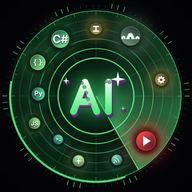
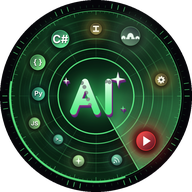
Launch splash with a live radar sweep; search results grouped by source
- Splash: green radar disc with a rotating sweep and blips, plus the
  Radar/AI wordmark, shown once per launch (skipped on in-session reloads,
  auto-hides via CSS if scripts fail).
- Search: icon-sized search button; results get colored per-source groups
  (YouTube, GitHub, Hacker News, other platforms) with counts, first 3
  items and "عرض الكل", plus source tabs to show one source at a time.
- Fixes the channel-kind row showing when it should be hidden.
- Launcher "any" icons get a transparent circle so the system splash shows
  a round icon.
Claude-Session: https://claude.ai/code/session_015q84QNiySEyyydUfSFTRJH

diff --git a/index.html b/index.html
@@ -70,6 +70,7 @@ header {
 .field::placeholder { color: var(--muted); }
 .field.ltr { direction: ltr; text-align: left; }
 .panel .two { display: flex; gap: 8px; }
+.panel .two[hidden] { display: none; }
 .panel select.field { flex: 1; }
 .srow { display: flex; gap: 8px; }
 .srow .field { flex: 1; }
@@ -81,8 +82,28 @@ header {
 .rcard .ra .go { background: var(--accent); color: #111; border-color: var(--accent); font-weight: 700; }
 .btn-main { height: 44px; padding: 0 18px; border: 0; border-radius: 12px; background: var(--accent); color: #111; font-weight: 700; }
 .hint { font-size: 12px; color: var(--muted); line-height: 1.8; margin: 0; }
-.sresh { font-size: 12px; font-weight: 700; color: var(--muted); margin: 10px 0 -2px; text-transform: uppercase; letter-spacing: .02em; }
-.sresh:first-child { margin-top: 2px; }
+.btn-icon { width: 44px; padding: 0; display: inline-grid; place-items: center; flex: 0 0 auto; }
+.btn-icon svg { width: 20px; height: 20px; }
+.stabs { display: flex; gap: 6px; overflow-x: auto; scrollbar-width: none; padding: 2px 0 4px; }
+.stabs::-webkit-scrollbar { display: none; }
+.stab { flex: 0 0 auto; display: inline-flex; align-items: center; gap: 6px; height: 34px; padding: 0 12px; border-radius: 999px; border: 1px solid var(--line); background: var(--surface); color: var(--text); font-size: 13px; font-weight: 600; }
+.stab .scount { font-family: var(--font-mono); font-size: 11px; color: var(--muted); font-weight: 500; }
+.stab .scount:empty { display: none; }
+.stab[aria-pressed="true"] { border-color: var(--sc, var(--text)); background: color-mix(in srgb, var(--sc, #fff) 16%, var(--surface)); }
+.sdot { width: 8px; height: 8px; border-radius: 50%; background: var(--sc); flex: 0 0 auto; }
+.sgroup { display: flex; flex-direction: column; gap: 8px; padding: 10px; border-radius: 16px; border: 1px solid color-mix(in srgb, var(--sc) 35%, var(--line)); background: color-mix(in srgb, var(--sc) 6%, transparent); }
+.sgroup[hidden] { display: none; }
+.sresh { display: flex; align-items: center; gap: 8px; font-size: 15px; font-weight: 700; color: var(--sc); cursor: pointer; }
+.sresh .scount { font-family: var(--font-mono); font-size: 12px; font-weight: 500; padding: 1px 8px; border-radius: 999px; background: color-mix(in srgb, var(--sc) 18%, transparent); }
+.sresh .scount:empty { display: none; }
+.slist { display: flex; flex-direction: column; gap: 8px; }
+.sgroup:not(.open) .slist > .rcard:nth-child(n+4) { display: none; }
+.smore { height: 38px; border-radius: 10px; border: 1px dashed color-mix(in srgb, var(--sc) 55%, var(--line)); background: transparent; color: var(--sc); font-size: 13px; font-weight: 700; }
+.smore[hidden] { display: none; }
+.sgroup .rcard { padding: 10px 12px; gap: 4px; }
+.sgroup .rcard b { font-size: 14px; }
+.sgroup .rcard small { font-size: 12px; display: -webkit-box; -webkit-line-clamp: 2; -webkit-box-orient: vertical; overflow: hidden; }
+.sgroup .rcard .ra a, .sgroup .rcard .ra button { padding: 4px 10px; font-size: 12px; }
 .err { color: #ff9a8a; font-size: 13px; margin: 0; }
 
 .tiles { display: grid; grid-template-columns: repeat(3, 1fr); gap: 10px; margin-top: 14px; }
@@ -159,9 +180,30 @@ header {
 .toast[hidden] { display: none; }
 .empty { text-align: center; color: var(--muted); padding: 48px 12px; font-size: 15px; line-height: 1.9; }
 footer { margin-top: 28px; text-align: center; color: var(--muted); font-size: 12px; line-height: 1.9; }
+/* launch splash: radar disc with a live sweep and the wordmark, shown once per app launch */
+#splash { position: fixed; inset: 0; z-index: 50; background: var(--bg); display: flex; flex-direction: column; align-items: center; justify-content: center; gap: 26px; transition: opacity .45s ease; animation: spOut .4s ease 4s forwards; }
+#splash.hide { opacity: 0; pointer-events: none; }
+@keyframes spOut { to { opacity: 0; visibility: hidden; } }
+.sp-radar { position: relative; width: min(64vw, 270px); aspect-ratio: 1; border-radius: 50%; overflow: hidden;
+  background: repeating-radial-gradient(circle, transparent 0 calc(12.5% - 1px), rgba(90,235,130,.26) calc(12.5% - 1px) 12.5%), radial-gradient(circle, #0c3a1d 0%, #04140a 72%);
+  box-shadow: 0 0 0 2px rgba(90,235,130,.6), 0 0 0 9px rgba(90,235,130,.08), 0 0 60px rgba(90,235,130,.28); }
+.sp-radar::before { content: ""; position: absolute; inset: 0; background: linear-gradient(90deg, transparent calc(50% - .5px), rgba(90,235,130,.22) calc(50% - .5px) calc(50% + .5px), transparent 0), linear-gradient(0deg, transparent calc(50% - .5px), rgba(90,235,130,.22) calc(50% - .5px) calc(50% + .5px), transparent 0); }
+.sp-sweep { position: absolute; inset: 0; border-radius: 50%; background: conic-gradient(from 0deg, transparent 0 68%, rgba(110,255,150,0) 68%, rgba(110,255,150,.55) 100%); animation: spSpin 1.8s linear infinite; }
+.sp-sweep::after { content: ""; position: absolute; left: calc(50% - 1px); top: 0; width: 2px; height: 50%; background: #9dffbe; box-shadow: 0 0 10px 2px rgba(120,255,160,.8); }
+@keyframes spSpin { to { transform: rotate(360deg); } }
+.sp-blip { position: absolute; width: 9px; height: 9px; margin: -4.5px; border-radius: 50%; background: #b6ffcc; box-shadow: 0 0 12px 3px rgba(120,255,160,.75); opacity: 0; animation: spBlip 1.8s linear infinite; }
+@keyframes spBlip { 0%, 100% { opacity: 0; } 8% { opacity: 1; } 55% { opacity: .15; } }
+.sp-word { display: flex; align-items: baseline; gap: 8px; font-weight: 700; }
+.sp-word .r { font-size: 20px; font-weight: 600; color: var(--muted); }
+.sp-word .a { font-size: 46px; color: var(--accent); text-shadow: 0 0 24px rgba(255,122,61,.45); }
+@media (prefers-reduced-motion: reduce) { .sp-sweep, .sp-blip { animation-duration: 6s; } }
 </style>
 </head>
 <body>
+<div id="splash" aria-hidden="true">
+  <div class="sp-radar"><div class="sp-sweep"></div><span class="sp-blip" style="left:70%;top:30%;animation-delay:0.25s"></span><span class="sp-blip" style="left:78%;top:62%;animation-delay:0.55s"></span><span class="sp-blip" style="left:34%;top:74%;animation-delay:1.05s"></span><span class="sp-blip" style="left:26%;top:38%;animation-delay:1.45s"></span></div>
+  <div class="sp-word" dir="ltr"><span class="r">Radar</span><span class="a">AI</span></div>
+</div>
 <div class="wrap">
   <header>
     <div class="bar">
@@ -203,8 +245,8 @@ footer { margin-top: 28px; text-align: center; color: var(--muted); font-size: 1
 
     <div class="panel" id="searchBox" hidden>
       <div class="srow">
-        <input id="q" class="field" type="search" placeholder="دوّر في الرادار، أو دوس بحث لكل المنصات" autocomplete="off" enterkeyhint="search">
-        <button class="btn-main" id="qGo">بحث في كل المنصات</button>
+        <input id="q" class="field" type="search" placeholder="ابحث في الرادار وكل المنصات" autocomplete="off" enterkeyhint="search">
+        <button class="btn-main btn-icon" id="qGo" aria-label="بحث في كل المنصات"><svg viewBox="0 0 24 24" fill="none" stroke="currentColor" stroke-width="2.4" stroke-linecap="round"><circle cx="11" cy="11" r="7"/><path d="M20 20l-3.5-3.5"/></svg></button>
       </div>
       <div class="two" id="kindRow" hidden>
         <select id="chanKind" class="field" aria-label="قسم القناة">
@@ -236,6 +278,13 @@ footer { margin-top: 28px; text-align: center; color: var(--muted); font-size: 1
 </div>
 
 <script>
+/* hide the launch splash after one sweep, or at once on a reload within the same session */
+(function () {
+  var sp = document.getElementById("splash"), seen = false;
+  try { seen = !!sessionStorage.getItem("radar-splash"); sessionStorage.setItem("radar-splash", "1"); } catch (e) {}
+  if (seen) { sp.remove(); return; }
+  setTimeout(function () { sp.classList.add("hide"); setTimeout(function () { sp.remove(); }, 500); }, 1900);
+})();
 var CATS = [
   { id: "all", name: "All", icon: '<rect x="4" y="4" width="7" height="7" rx="1.5"/><rect x="13" y="4" width="7" height="7" rx="1.5"/><rect x="4" y="13" width="7" height="7" rx="1.5"/><rect x="13" y="13" width="7" height="7" rx="1.5"/>' },
   { id: "arch", name: "BIM AI", color: "var(--c-arch)", icon: '<path d="M3 21h18M5 21V9l7-5 7 5v12M9 21v-6h6v6M9 11h2M13 11h2"/>' },
@@ -617,11 +666,49 @@ function rcard(title, sub, openUrl, actions) {
   d.appendChild(r); return d;
 }
 function hint(t) { sHint.textContent = t; sHint.hidden = !t; }
-function section(title) {
-  var box = document.createElement("div");
-  var h = document.createElement("div"); h.className = "sresh"; h.textContent = title; box.appendChild(h);
-  sres.appendChild(box);
-  return box;
+var SRC_COLORS = { youtube: "#ff5c5c", github: "var(--c-code)", hn: "#ff9f43", ext: "var(--c-long)" };
+var stabs = null, sgroups = [];
+/* one results group per source: colored header with a count, first 3 results, then "عرض الكل" */
+function section(key, title) {
+  var color = SRC_COLORS[key];
+  var g = document.createElement("section"); g.className = "sgroup"; g.style.setProperty("--sc", color);
+  var h = document.createElement("div"); h.className = "sresh";
+  h.innerHTML = '<span class="sdot"></span><span class="sname"></span><span class="scount"></span>';
+  h.querySelector(".sname").textContent = title;
+  var list = document.createElement("div"); list.className = "slist";
+  var more = document.createElement("button"); more.className = "smore"; more.hidden = true;
+  g.appendChild(h); g.appendChild(list); g.appendChild(more); sres.appendChild(g);
+  var tab = document.createElement("button"); tab.className = "stab"; tab.style.setProperty("--sc", color);
+  tab.innerHTML = '<span class="sdot"></span><span class="sname"></span><b class="scount"></b>';
+  tab.querySelector(".sname").textContent = title;
+  stabs.appendChild(tab);
+  var grp = { key: key, el: g, tab: tab };
+  function upd() {
+    var n = list.querySelectorAll(".rcard").length;
+    h.querySelector(".scount").textContent = n || "";
+    tab.querySelector(".scount").textContent = n || "";
+    more.hidden = n <= 3 || g.classList.contains("solo");
+    more.textContent = g.classList.contains("open") ? "عرض أقل" : "عرض الكل (" + n + ")";
+  }
+  grp.upd = upd;
+  grp.add = function (el) { list.appendChild(el); upd(); };
+  more.onclick = function () { g.classList.toggle("open"); upd(); };
+  tab.onclick = function () { setTab(key); };
+  h.onclick = function () { setTab(key); };
+  sgroups.push(grp);
+  return grp;
+}
+function setTab(key) {
+  Array.prototype.forEach.call(stabs.children, function (t, i) {
+    t.setAttribute("aria-pressed", String(i === 0 ? key === "all" : sgroups[i - 1].key === key));
+  });
+  sgroups.forEach(function (g) {
+    var solo = key === g.key;
+    g.el.hidden = key !== "all" && !solo;
+    g.el.classList.toggle("solo", solo);
+    g.el.classList.toggle("open", solo);
+    g.upd();
+  });
 }
 var OPEN_SEARCH = [
   ["Instagram", "https://www.instagram.com/explore/search/keyword/?q="],
@@ -632,7 +719,7 @@ var OPEN_SEARCH = [
 function runSearch() {
   var v = qEl.value.trim();
   if (!v) return;
-  sres.innerHTML = ""; hint("");
+  sres.innerHTML = ""; hint(""); sgroups = [];
   document.getElementById("kindRow").hidden = true;
   /* a YouTube channel link or @handle: offer to add it as a channel, nothing else to search for */
   var m = v.match(/youtube\.com\/(@[\w.\-]+|channel\/(UC[\w-]{22}))/i) || v.match(/^(@[\w.\-]{2,40})$/);
@@ -642,67 +729,76 @@ function runSearch() {
     sres.appendChild(rcard(ref, "قناة يوتيوب", m[2] ? "https://www.youtube.com/channel/" + ref : "https://www.youtube.com/" + ref, [{ label: "＋ قناة للرادار", go: true, fn: function () { addChannelToRadar(ref, ref); } }]));
     return;
   }
+  stabs = document.createElement("div"); stabs.className = "stabs";
+  var all = document.createElement("button"); all.className = "stab"; all.textContent = "الكل"; all.setAttribute("aria-pressed", "true");
+  all.onclick = function () { setTab("all"); };
+  stabs.appendChild(all); sres.appendChild(stabs);
+
   var pending = 3;
-  function oneDone() { pending--; if (pending === 0 && !sres.querySelector(".rcard")) hint("مفيش نتائج من المصادر اللي بندور فيها جوه التطبيق."); }
+  function oneDone() {
+    pending--;
+    if (pending === 0 && !sres.querySelector(".sgroup:not(:last-child) .rcard")) hint("مفيش نتائج من المصادر اللي بندور فيها جوه التطبيق.");
+  }
 
-  var ghBox = section("GitHub");
-  fetch("https://api.github.com/search/repositories?sort=stars&order=desc&per_page=6&q=" + encodeURIComponent(v))
-    .then(function (r) { if (!r.ok) throw new Error(r.status); return r.json(); })
-    .then(function (d) {
-      (d.items || []).forEach(function (r) {
-        var sub = (r.description || "") + "  ★ " + r.stargazers_count + (r.language ? "  ·  " + r.language : "");
-        ghBox.appendChild(rcard(r.full_name, sub, r.html_url, [{ label: "للرادار", go: true, fn: function () {
-          saveFound({ cat: "code", src: "GitHub", t: r.full_name + (r.description ? ": " + r.description : ""), url: r.html_url, tags: ["★ " + r.stargazers_count] });
-        } }]));
-      });
-    }).catch(function () {}).then(oneDone);
+  var yt = section("youtube", "YouTube");
+  var gh = section("github", "GitHub");
+  var hn = section("hn", "Hacker News");
+  var ext = section("ext", "منصات تانية");
 
-  var hnBox = section("Hacker News");
-  fetch("https://hn.algolia.com/api/v1/search?query=" + encodeURIComponent(v) + "&tags=story&hitsPerPage=6")
-    .then(function (r) { if (!r.ok) throw new Error(r.status); return r.json(); })
-    .then(function (d) {
-      (d.hits || []).forEach(function (h) {
-        var hurl = h.url || ("https://news.ycombinator.com/item?id=" + h.objectID);
-        hnBox.appendChild(rcard(h.title, (h.points || 0) + " نقطة، " + (h.num_comments || 0) + " تعليق", hurl, [{ label: "للرادار", go: true, fn: function () {
-          saveFound({ cat: "code", src: "Hacker News", t: h.title, url: hurl, tags: ["نقاش"] });
-        } }]));
-      });
-    }).catch(function () {}).then(oneDone);
-
-  var ytBox = section("YouTube");
   var key = lsGet("radar-ytkey");
   var ytUrl = "https://www.youtube.com/results?search_query=" + encodeURIComponent(v);
   if (!key) {
-    ytBox.appendChild(rcard("ابحث عن «" + v + "» في يوتيوب", "محتاج مفتاح مجاني من جوجل عشان نتايجه تبان هنا جوه التطبيق", ytUrl, []));
+    yt.add(rcard("افتح نتايج «" + v + "» في يوتيوب", "عشان الفيديوهات تظهر هنا محتاج مفتاح مجاني من جوجل (مرة واحدة)", ytUrl, []));
     var kb = document.createElement("div"); kb.className = "srow";
     var ki = document.createElement("input"); ki.className = "field ltr"; ki.placeholder = "YouTube API key (اختياري)";
     var kg = document.createElement("button"); kg.className = "btn-main"; kg.textContent = "حفظ";
     kg.onclick = function () { if (ki.value.trim()) { lsSet("radar-ytkey", ki.value.trim()); toast("اتحفظ. ابحث تاني"); runSearch(); } };
-    kb.appendChild(ki); kb.appendChild(kg); ytBox.appendChild(kb);
+    kb.appendChild(ki); kb.appendChild(kg); yt.add(kb);
     oneDone();
   } else {
-    fetch("https://www.googleapis.com/youtube/v3/search?part=snippet&maxResults=6&type=video,channel&q=" + encodeURIComponent(v) + "&key=" + encodeURIComponent(key))
+    fetch("https://www.googleapis.com/youtube/v3/search?part=snippet&maxResults=8&type=video,channel&q=" + encodeURIComponent(v) + "&key=" + encodeURIComponent(key))
       .then(function (r) { if (!r.ok) throw new Error(r.status); return r.json(); })
       .then(function (d) {
         (d.items || []).forEach(function (it) {
           var sn = it.snippet || {};
           if (it.id.kind === "youtube#channel") {
             var cid = it.id.channelId;
-            ytBox.appendChild(rcard(sn.title, "قناة · " + (sn.description || ""), "https://www.youtube.com/channel/" + cid, [{ label: "＋ قناة للرادار", go: true, fn: function () { addChannelToRadar(cid, sn.title); } }]));
+            yt.add(rcard(sn.title, "قناة · " + (sn.description || ""), "https://www.youtube.com/channel/" + cid, [{ label: "＋ قناة للرادار", go: true, fn: function () { addChannelToRadar(cid, sn.title); } }]));
           } else {
             var vu = "https://www.youtube.com/watch?v=" + it.id.videoId;
-            ytBox.appendChild(rcard(sn.title, sn.channelTitle, vu, [{ label: "للرادار", go: true, fn: function () { saveFound({ cat: "long", src: "YouTube", t: sn.title, url: vu, tags: [sn.channelTitle] }); } }]));
+            yt.add(rcard(sn.title, sn.channelTitle, vu, [{ label: "للرادار", go: true, fn: function () { saveFound({ cat: "long", src: "YouTube", t: sn.title, url: vu, tags: [sn.channelTitle] }); } }]));
           }
         });
       }).catch(function () {
         var cb = document.createElement("button"); cb.className = "pill"; cb.textContent = "المفتاح مش شغال، مسحه"; cb.onclick = function () { lsSet("radar-ytkey", ""); runSearch(); };
-        ytBox.appendChild(cb);
+        yt.add(cb);
       }).then(oneDone);
   }
 
-  var extBox = section("منصات تانية");
+  fetch("https://api.github.com/search/repositories?sort=stars&order=desc&per_page=8&q=" + encodeURIComponent(v))
+    .then(function (r) { if (!r.ok) throw new Error(r.status); return r.json(); })
+    .then(function (d) {
+      (d.items || []).forEach(function (r) {
+        var sub = (r.description || "") + "  ★ " + r.stargazers_count + (r.language ? "  ·  " + r.language : "");
+        gh.add(rcard(r.full_name, sub, r.html_url, [{ label: "للرادار", go: true, fn: function () {
+          saveFound({ cat: "code", src: "GitHub", t: r.full_name + (r.description ? ": " + r.description : ""), url: r.html_url, tags: ["★ " + r.stargazers_count] });
+        } }]));
+      });
+    }).catch(function () {}).then(oneDone);
+
+  fetch("https://hn.algolia.com/api/v1/search?query=" + encodeURIComponent(v) + "&tags=story&hitsPerPage=8")
+    .then(function (r) { if (!r.ok) throw new Error(r.status); return r.json(); })
+    .then(function (d) {
+      (d.hits || []).forEach(function (h) {
+        var hurl = h.url || ("https://news.ycombinator.com/item?id=" + h.objectID);
+        hn.add(rcard(h.title, (h.points || 0) + " نقطة، " + (h.num_comments || 0) + " تعليق", hurl, [{ label: "للرادار", go: true, fn: function () {
+          saveFound({ cat: "code", src: "Hacker News", t: h.title, url: hurl, tags: ["نقاش"] });
+        } }]));
+      });
+    }).catch(function () {}).then(oneDone);
+
   OPEN_SEARCH.forEach(function (p) {
-    extBox.appendChild(rcard("افتح بحث «" + v + "» في " + p[0], "", p[1] + encodeURIComponent(v), []));
+    ext.add(rcard("دوّر على «" + v + "» في " + p[0], "بيفتح بحث " + p[0] + " نفسه", p[1] + encodeURIComponent(v), []));
   });
 }
 document.getElementById("btnSaved").onclick = function () { state.onlySaved = !state.onlySaved; render(); };

diff --git a/sw.js b/sw.js
@@ -1,5 +1,5 @@
 // رادار service worker: pages network-first (so updates show), assets cache-first, data.json network-first.
-var CACHE = "radar-v23";
+var CACHE = "radar-v24";
 var SHELL = ["./", "index.html", "manifest.webmanifest", "icon-192.png", "icon-512.png"];
 
 self.addEventListener("install", function (e) {
